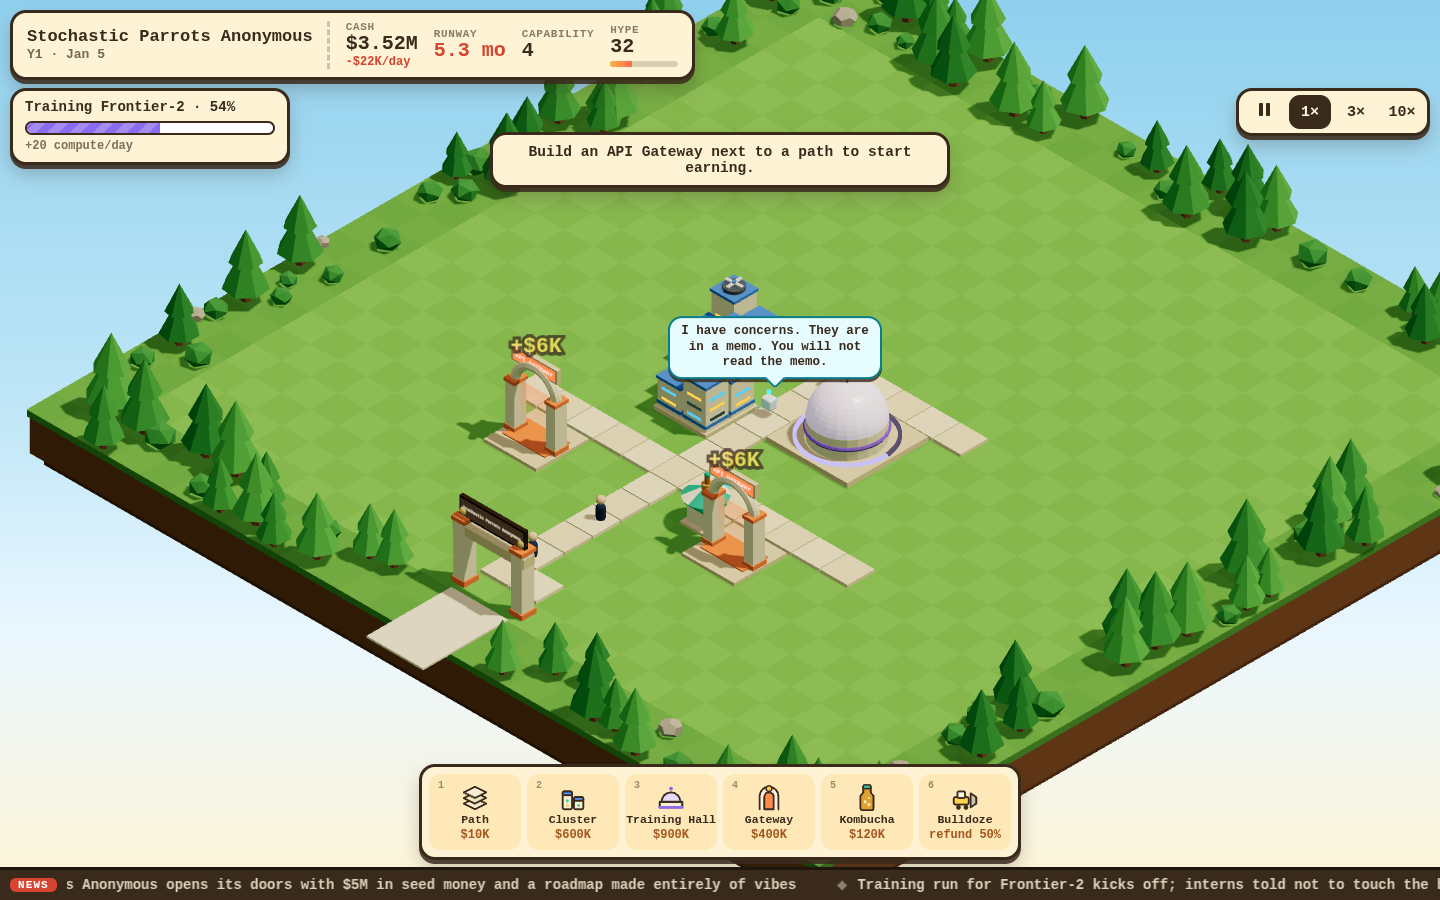
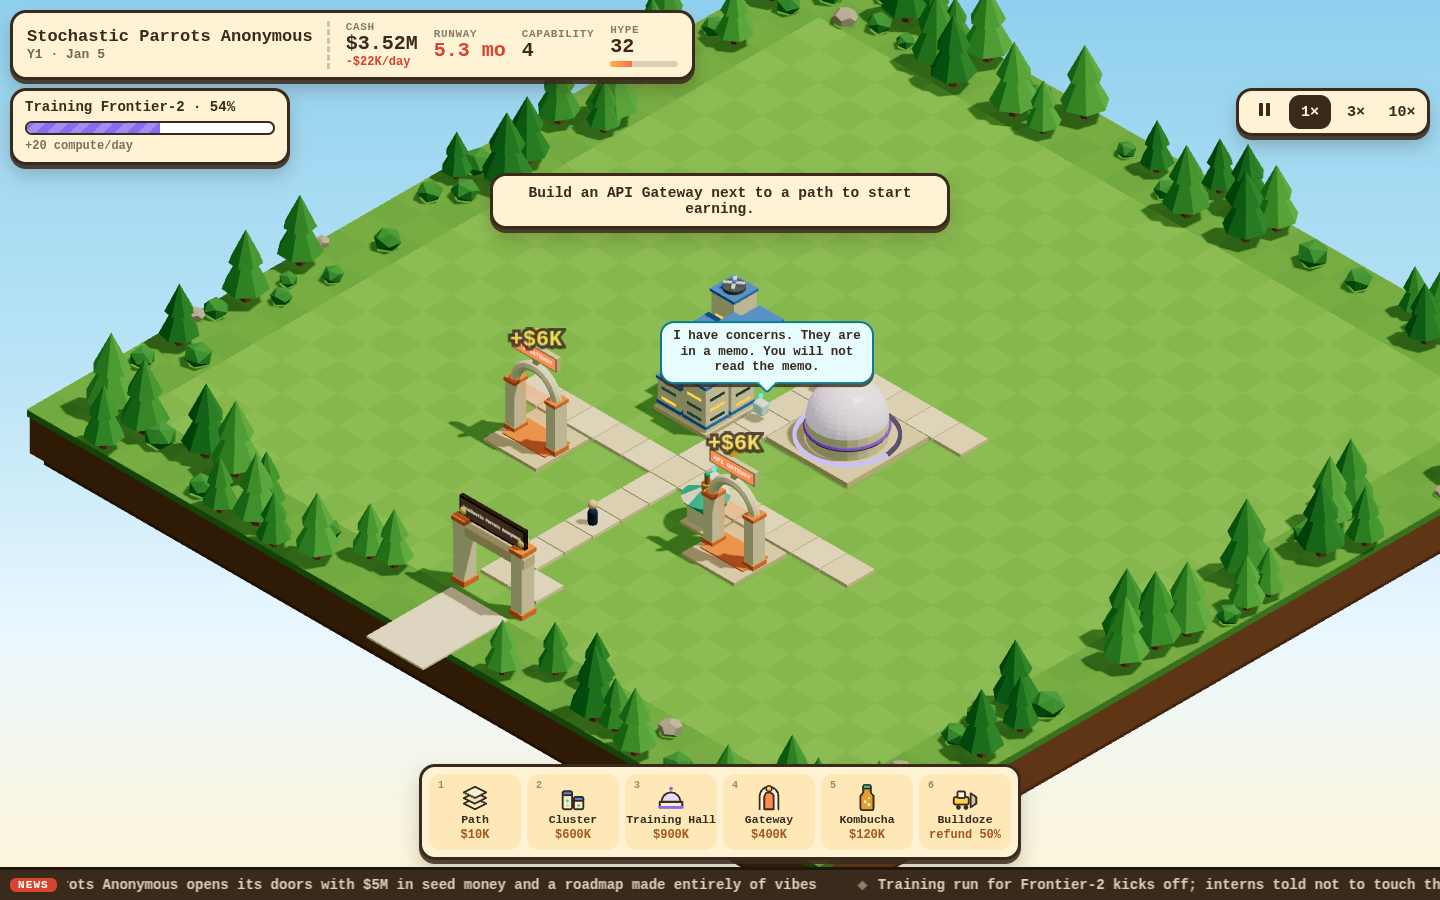
Final screenshots, phone bubble sizing

diff --git a/src/ui/ui.css b/src/ui/ui.css
@@ -527,7 +527,9 @@ button {
     font-size: 12px;
   }
   .bubble {
-    max-width: 150px;
-    font-size: 11.5px;
+    max-width: 130px;
+    padding: 4px 8px;
+    font-size: 10.5px;
+    border-radius: 11px;
   }
 }
